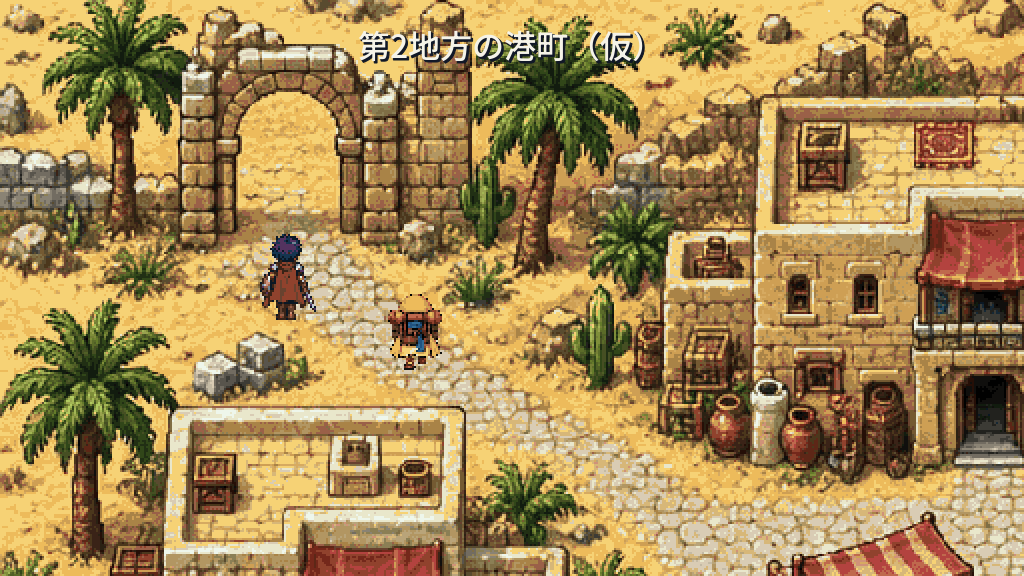
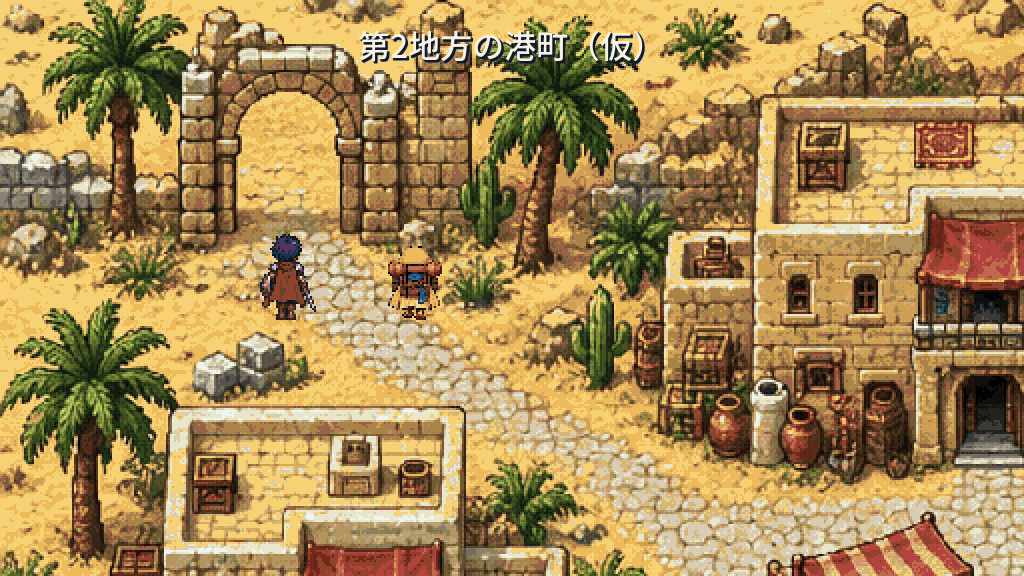
船を消した部分の海を、船の形に沿った範囲で原画の海の画素から合成し直す
- 埋める範囲を船の画素と船の影だけにし、船のすきまの本物の海は残す。上と左のまっすぐな境目をなくした
- 埋める画素は、周りの海と最もよく合う画素を原画の海の中から画素ごとに選んで1画素ずつ写す（波の並びが同じくり返しにならない）。ぼかし・混ぜ合わせなし
- 写し元の地図を影の範囲まで広げて記録し、検査で全画素が写し元の1画素の色だけで決まることを確かめる
- 消した部分の拡大を、消す前・今回の修正前・今回の修正後の3つ並べにした。船の絵で隠れる割合の記録を追加

Claude-Session: https://claude.ai/code/session_01LE2PtJusum8NxK6bSWYbwF

Changed region(s): [[0.375, 0.4375, 0.4375, 0.6562]]

diff --git a/tools/build_region2_port_town_backdrop.py b/tools/build_region2_port_town_backdrop.py
@@ -81,22 +81,7 @@ def erase_ship(raw):
     hx,hy=D.SHIP_HPLANK
     hplank=ship&~plank&~quay&(yy>=hy)&(xx>=hx)
     water=ship&~plank&~quay&~sand&~hplank
-    out=im.copy();src=np.full((H,W,2),-1,int);todo=water.copy()
-    for _ in range(8):   # 海：船のない海の塊を、ずらしてそのまま写す（最も多く埋まるずらしから順に）
-        ty,tx=np.nonzero(todo)
-        if len(ty)==0:break
-        best=None
-        for dx in range(150,520,6):
-            for dy in range(-140,141,6):
-                sy=ty+dy;sx=tx+dx;ok=(sy>=0)&(sy<H)&(sx>=0)&(sx<W)
-                n=int(clean[sy[ok],sx[ok]].sum())
-                if best is None or n>best[0]:best=(n,dx,dy)
-        n,dx,dy=best
-        sy=ty+dy;sx=tx+dx;ok=(sy>=0)&(sy<H)&(sx>=0)&(sx<W);ok[ok]=clean[sy[ok],sx[ok]]
-        if not ok.any():break
-        out[ty[ok],tx[ok]]=im[sy[ok],sx[ok]];src[ty[ok],tx[ok]]=np.stack([sx[ok],sy[ok]],1);todo[ty[ok],tx[ok]]=False
-    assert not todo.any() or todo.sum()<50,int(todo.sum())
-    for y,x in zip(*np.nonzero(todo)):out[y,x]=im[560,1000];src[y,x]=(1000,560)
+    out=im.copy();src=np.full((H,W,2),-1,int)
     def put(y,x,sy,sx):out[y,x]=im[sy,sx];src[y,x]=(sx,sy)
     px0,py0,px1,py1=D.SRC_PLANK_V
     for y,x in zip(*np.nonzero(plank)):put(y,x,py0+mirror(y,py1-py0),px0+mirror(x,px1-px0))
@@ -114,7 +99,64 @@ def erase_ship(raw):
                 if kind=='sand':put(y,x,sy0+mirror(y-y0,sy1-sy0),sx0+mirror(x-x0,sx1-sx0))
                 elif kind=='quay':put(y,x,uy0+mirror(y-y0,uy1-uy0),ux0+mirror(x-x0,ux1-ux0))
                 else:put(y,x,py0+mirror(y,py1-py0),px0+mirror(x,px1-px0))
+    # 海：船の画素だけを、船のない海の画素から1画素ずつ写して埋める（周りの海の続きになるように）。
+    # 船の形に沿った不規則な範囲になり、船のすきまから見えていた本物の海はそのまま残す。
+    bm=ndi.uniform_filter((b*blue).astype(float),9)/np.maximum(ndi.uniform_filter(blue.astype(float),9),1e-6)
+    clear=blue&(b>=125)&(bm>=150)   # 船の影になった暗い海は船の一部として埋め直す
+    shipish=water&~clear
+    # 船の影（船の外へはみ出した暗い灰青の海）も船の一部として埋める。板（茶色）と杭には触れない。
+    shadow=(~brown)&(~white)&(b<150)&(r<110)&(b>r+5)&ndi.binary_dilation(polygon_px(D.SHIP_POLY),iterations=D.SHIP_SHADOW_REACH)&(yy>=D.SHIP_SAND_Y+24)
+    shadow&=~ndi.binary_dilation(brown,iterations=1)
+    shadow&=(yy<D.SHIP_HPLANK[1])                      # 長い桟橋の板の隙間の暗い青は触らない
+    for ex0,ey0,ex1,ey1 in D.SHIP_SHADOW_SKIP:shadow[ey0:ey1,ex0:ex1]=False   # 杭と綱のそば
+    fill=(ndi.binary_dilation(shipish,iterations=2)&water)|(shadow&~plank&~polygon_px(D.SHIP_KEEP))
+    near_brown=ndi.uniform_filter(brown.astype(float),7)>0
+    pool=(blue|white)&~near_brown&~ndi.binary_dilation(polygon_px(D.SHIP_POLY),iterations=10+D.SHIP_SHADOW_REACH)&~fill
+    pool[:4]=pool[-4:]=False;pool[:,:4]=pool[:,-4:]=False
+    inpaint_sea(im,out,src,fill,pool)
     return out,src
+
+def inpaint_sea(im,out,src,fill,pool):
+    """Ashikhminの方法：すでに埋めた隣の画素の写し元の隣を第一候補にし（波の並びを続ける）、海の画素をいくつか加え、
+    周りの確定した画素（7×7）と最もよく合う候補の1画素をそのまま写す。ぼかし・混ぜ合わせはしない。"""
+    rng=np.random.RandomState(7);R=3
+    offs=np.array([(dy,dx) for dy in range(-R,R+1) for dx in range(-R,R+1) if (dy,dx)!=(0,0)])
+    known=~fill;synth=np.zeros((H,W),bool)
+    oc=out.astype(int);wl=((oc[:,:,2]>oc[:,:,0]+60)&(oc[:,:,2]>oc[:,:,1]+20))|((oc[:,:,0]>150)&(oc[:,:,1]>150)&(oc[:,:,2]>150))   # 比べる相手は海の画素だけ（板や岸の色に引きずられて暗くなるのを防ぐ）
+    py,px=np.nonzero(pool);pool_xy=np.stack([py,px],1)
+    steps=[(-1,-1),(-1,0),(-1,1),(0,-1),(0,1),(1,-1),(1,0),(1,1)]
+    unknown=fill.copy();ones=np.ones((3,3),bool)
+    total=int(fill.sum())
+    while unknown.any():
+        edge=ndi.binary_dilation(known,structure=ones)&unknown
+        ys,xs=np.nonzero(edge)
+        if len(ys)==0:ys,xs=np.nonzero(unknown)[0][:1],np.nonzero(unknown)[1][:1]
+        score=ndi.uniform_filter(known.astype(float),7)[ys,xs]
+        for i in np.argsort(-score,kind='stable'):
+            y,x=int(ys[i]),int(xs[i])
+            cands=[]
+            for dy,dx in steps:
+                ny,nx=y+dy,x+dx
+                if 0<=ny<H and 0<=nx<W and synth[ny,nx]:
+                    sx,sy=src[ny,nx];cands.append((sy-dy,sx-dx))
+            for j in rng.randint(0,len(pool_xy),24):cands.append(tuple(pool_xy[j]))
+            if 500<=y<=545:
+                for ddx in range(66,134,8):cands.append((y,x-ddx))
+            c=np.array(cands);ok=(c[:,0]>=R)&(c[:,0]<H-R)&(c[:,1]>=R)&(c[:,1]<W-R)
+            c=c[ok]
+            if len(c)==0:c=pool_xy[rng.randint(0,len(pool_xy),8)]
+            c=c[pool[c[:,0],c[:,1]]]
+            if len(c)==0:c=pool_xy[rng.randint(0,len(pool_xy),8)]
+            wy=y+offs[:,0];wx=x+offs[:,1];inside=(wy>=0)&(wy<H)&(wx>=0)&(wx<W)
+            wy=np.clip(wy,0,H-1);wx=np.clip(wx,0,W-1);k=known[wy,wx]&inside&wl[wy,wx]
+            target=out[wy,wx].astype(np.int32)
+            cy=c[:,0:1]+offs[None,:,0];cx=c[:,1:2]+offs[None,:,1]
+            diff=im[cy,cx].astype(np.int32)-target[None]
+            cost=((diff**2).sum(2)*k[None]).sum(1)
+            best=c[int(np.argmin(cost))]
+            out[y,x]=im[best[0],best[1]];src[y,x]=(best[1],best[0])
+            known[y,x]=True;unknown[y,x]=False;synth[y,x]=True;wl[y,x]=True
+    return total
 
 def sand_like(small):
     s=small.astype(float)/255;r,g,b=s[...,0],s[...,1],s[...,2];mx=s.max(2);mn=s.min(2)
@@ -291,8 +333,9 @@ def ship_erase_report(raw,image,source_map):
     value=((source_map[:,:,0]+1)<<10)|source_map[:,:,1]
     value=np.where(mask,value,0)
     packed[:,:,0]=(value>>16)&255;packed[:,:,1]=(value>>8)&255;packed[:,:,2]=value&255
+    mx0,my0,mx1,my1=D.SHIP_MAP_BOX   # 写し元の地図は、影の範囲まで含む広い範囲で記録する
+    Image.fromarray(packed[my0:my1,mx0:mx1]).save(VERIFY/'ship-erase-source-map.png')
     x0,y0,x1,y1=830,430,1140,790
-    Image.fromarray(packed[y0:y1,x0:x1]).save(VERIFY/'ship-erase-source-map.png')
     quant=np.array(Image.open(ROOT/BACKDROP).convert('RGB'))
     Image.fromarray(raw[y0:y1,x0:x1]).resize(((x1-x0)*3,(y1-y0)*3),Image.Resampling.NEAREST).save(VERIFY/'ship-erase-before.png')
     Image.fromarray(quant[y0:y1,x0:x1]).resize(((x1-x0)*3,(y1-y0)*3),Image.Resampling.NEAREST).save(VERIFY/'ship-erase-after.png')
@@ -383,7 +426,7 @@ def main():
         colors=len(colors),palette_used=[list(c) for c in colors],dropped_for_64=[dict(rgb=list(c),pixels=n) for c,n in dropped],
         palette_extension='assets/source_records/natural-water-extension.json',
         spawn=list(SPAWN),exit=list(EXIT),dock=list(DOCK),doors={n:list(d) for n,_,d,_ in D.BUILDINGS},
-        pruned_isolated_cells=[list(c) for c in cut],ship_erase=dict(bbox=[830,430,1140,790],source_map='docs/verification/region2-port-backdrop/ship-erase-source-map.png',encoding='値=((写し元x+1)<<10)|写し元y を R,G,B の24bit。0は手を入れていない画素。写し元は縮小後の絵の座標',pixels=int((source_map[:,:,0]>=0).sum())),ship_cell=list(SHIP_CELL),layout=rows_of(walk),
+        pruned_isolated_cells=[list(c) for c in cut],ship_erase=dict(bbox=list(D.SHIP_MAP_BOX),source_map='docs/verification/region2-port-backdrop/ship-erase-source-map.png',encoding='値=((写し元x+1)<<10)|写し元y を R,G,B の24bit。0は手を入れていない画素。写し元は縮小後の絵の座標',pixels=int((source_map[:,:,0]>=0).sum())),ship_cell=list(SHIP_CELL),layout=rows_of(walk),
         upper_layer=dict(path=OVERLAY,size=list(atlas.size),pieces=len(table),objects=sorted({t[7] for t in table}))))
     print('REGION2_TOWN_BACKDROP_BUILD_PASS: colors=%d walkable=%d pieces=%d atlas=%s pruned=%d dropped_colors=%d'%(len(colors),walk.sum(),len(table),atlas.size,len(cut),len(dropped)))
 

diff --git a/tools/build_region2_port_backdrop_review.py b/tools/build_region2_port_backdrop_review.py
@@ -79,13 +79,39 @@ def scenic_sheet():
         d.text((x,y+22),f"マス{tuple(s['cell'])}　人物の見える画素 {s['visible']}/{s['opaque']}（頭 {s['head_visible']}/{s['head_opaque']}）",font=font,fill=(70,70,70))
     sheet.save(OUT/'walking-scenes.png')
 
+ERASE_BOX=(830,430,1140,790)
+V0_COMMIT='79a43a5'   # 船を消す前（船が背景に描かれていた版）
+V1_COMMIT='eb9fd83'   # 船を消した最初の版（今回の修正前）
+
+def backdrop_at(commit):
+    if commit is None:return Image.open(ROOT/'assets/town_backdrops/region2_port.png').convert('RGB')
+    raw=subprocess.check_output(['git','show',f'{commit}:assets/town_backdrops/region2_port.png'],cwd=ROOT)
+    tmp=OUT/('_tmp_%s.png'%commit);tmp.write_bytes(raw);im=Image.open(tmp).convert('RGB');im.load();tmp.unlink();return im
+
 def erase_sheet():
-    """船を消した部分の拡大（消す前・消した後）。縮小後の絵の同じ範囲を3倍の最近傍で並べる。"""
-    before=Image.open(OUT/'ship-erase-before.png').convert('RGB');after=Image.open(OUT/'ship-erase-after.png').convert('RGB')
-    font=ImageFont.truetype(FONT,20)
-    sheet=Image.new('RGB',(before.width*2+60,before.height+60),(232,222,200));d=ImageDraw.Draw(sheet)
-    d.text((20,14),'消す前（縮小後の絵、3倍）',font=font,fill=(30,30,30));d.text((before.width+40,14),'消した後（減色後の背景、3倍）',font=font,fill=(30,30,30))
-    sheet.paste(before,(20,50));sheet.paste(after,(before.width+40,50));sheet.save(OUT/'ship-erase-before-after.png')
+    """船を消した部分の拡大：消す前・今回の修正前・今回の修正後。縮小後の同じ範囲を3倍の最近傍で並べる。"""
+    panels=[('消す前（船が背景に描かれた版）',backdrop_at(V0_COMMIT)),('今回の修正前（船を消した最初の版）',backdrop_at(V1_COMMIT)),('今回の修正後',backdrop_at(None))]
+    x0,y0,x1,y1=ERASE_BOX;font=ImageFont.truetype(FONT,20);w=(x1-x0)*3;h=(y1-y0)*3
+    sheet=Image.new('RGB',(w*3+80,h+60),(232,222,200));d=ImageDraw.Draw(sheet)
+    for i,(title,im) in enumerate(panels):
+        x=20+i*(w+20);d.text((x,14),title,font=font,fill=(30,30,30))
+        sheet.paste(im.crop(ERASE_BOX).resize((w,h),Image.Resampling.NEAREST),(x,50))
+    sheet.save(OUT/'ship-erase-before-after.png')
+
+def ship_coverage():
+    """消して埋めた画素のうち、動く船の絵（不透明画素）で隠れる割合。隠れない部分は周りの海と区別がつかないことを目で確かめる。"""
+    record=json.loads((ROOT/'assets/source_records/region2-port-town-backdrop.json').read_text(encoding='utf8'))
+    emap=np.array(Image.open(OUT/'ship-erase-source-map.png').convert('RGB')).astype(int)
+    value=(emap[:,:,0]<<16)|(emap[:,:,1]<<8)|emap[:,:,2];edited=value>0
+    x0,y0=record['ship_erase']['bbox'][:2]   # 写し元の地図の左上
+    sprite=Image.open(ROOT/'assets/vehicles/owner_ship.png').convert('RGBA').crop((96,0,192,96)).resize((192,192),Image.Resampling.NEAREST)
+    alpha=np.array(sprite)[:,:,3]>0
+    cx,cy=record['ship_cell'];sx=cx*32+16-96;sy=(cy+1)*32-192
+    covered=0;total=int(edited.sum())
+    for yy,xx in zip(*np.nonzero(edited)):
+        px,py=xx+x0-sx,yy+y0-sy
+        if 0<=px<192 and 0<=py<192 and alpha[py,px]:covered+=1
+    return dict(edited_pixels=total,hidden_by_ship_sprite=covered,ratio=round(covered/total,3))
 
 def ship_sheet():
     shots=json.loads((OUT/'ship/checks.json').read_text(encoding='utf8'))['scenic']
@@ -97,8 +123,11 @@ def ship_sheet():
         x=12+i%2*(tw+12);y=12+i//2*(th+34);d.text((x,y),names.get(key,key),font=font,fill=(30,30,30));sheet.paste(im.resize((tw,th),Image.Resampling.LANCZOS),(x,y+26))
     sheet.save(OUT/'ship-scenes.png')
 
+def write_json(path,value):path.write_text(json.dumps(value,ensure_ascii=False,indent=2)+'\n',encoding='utf8',newline='\n')
+
 def main():
     OUT.mkdir(parents=True,exist_ok=True)
     comparison();overlay_on_original();scenic_sheet();erase_sheet();ship_sheet()
+    write_json(OUT/'ship-erase-coverage.json',ship_coverage())
     print('REGION2_BACKDROP_REVIEW_BUILT')
 if __name__=='__main__':main()

diff --git a/tools/region2_port_town_defs.py b/tools/region2_port_town_defs.py
@@ -122,3 +122,7 @@ SRC_SAND_DX=-36                   # 砂は左隣から
 # (x0,y0,x1,y1,種類)  sand＝砂、quay＝岸壁の板の側面、plank＝縦板の渡し板
 ENTRANCE_CLEAR=[(986,436,1005,479,'sand'),(1006,454,1027,479,'sand'),(986,480,1005,486,'quay'),(1006,480,1027,498,'plank')]
 SRC_SAND=(950,451,966,468)       # 砂の見本
+
+SHIP_SHADOW_REACH=28              # 船の領域の外へ、影を探す幅（px）
+SHIP_SHADOW_SKIP=[(900,496,942,540)]   # 影の探索から除く範囲（杭と綱）
+SHIP_MAP_BOX=(780,400,1180,830)   # 写し元の地図に記録する範囲（船の領域＋影の探索幅を含む）

diff --git a/docs/region2-port-backdrop.md b/docs/region2-port-backdrop.md
@@ -67,17 +67,22 @@
 最初の版では、原画に描かれた船を背景に残していたため、出航しても船の絵が桟橋に残った。次のように直した。
 
 - 背景から船（船体・帆柱・帆・綱）を消した。消した範囲は `tools/region2_port_town_defs.py` の `SHIP_POLY`（杭と係船柱は `SHIP_KEEP` などで残す）。
-  埋めた画素はすべて**周りの船のない画素をそのまま写したもの**で、ぼかし・混ぜ合わせはしない。
-  - 海：船のない海の塊を、ずらしてそのまま写した（ずらし量は、船のない海の画素が最も多く埋まるものから順に8回まで。ぼかしなし）。
+  埋めた画素はすべて**周りの船のない画素を1画素ずつそのまま写したもの**で、ぼかし・混ぜ合わせはしない。
+  - 海（2026年10月3日に直した）：最初の版は、船のない海の1か所の塊を、船の領域全体へずらして写していた。そのため上と左の端がまっすぐな線で区切られ、波の並びが単調で、写し元の境目に薄い線が出た。
+    今は、**船の画素と船の影だけ**を埋める（船のすきまから見えていた本物の海はそのまま残す。範囲は船の形に沿った不規則な形になる）。
+    埋めかたは Ashikhmin の画素合成：埋める画素ごとに、すでに決まった周り7×7の海の画素と最もよく合う画素を、原画の海の中から候補（①すでに埋めた隣の写し元の隣＝波の並びを続ける、②船から離れた海の画素24個、③同じ高さの左側の海）から選び、その1画素をそのまま写す。
+    比べる相手は海の画素だけ（板や杭の色に引きずられない）。明るさと波の向きが近い場所が画素ごとに選ばれるので、同じ並びのくり返しや、1か所の写し元の境目の線は出ない。
+    船の影（船の外へはみ出した暗い灰青）も埋める。板（茶色）と杭と綱のそばは触らない。
   - 桟橋の縦板（斜めの渡し板・中央桟橋の縁）：中央桟橋の船のない縦板を鏡像に敷いた。
   - 長い桟橋の上の縁（船体の下に隠れていた部分）：長い桟橋の船のない横板を鏡像に敷いた。
   - 岸壁の板の側面（帆柱が横切っていた部分）：同じ側面の船のない部分を鏡像に敷いた。前の帆柱の先は、左隣の砂を写した。
-- 写し元の座標は全画素について `docs/verification/region2-port-backdrop/ship-erase-source-map.png` に記録した（形式はファイル内の `assets/source_records/region2-port-town-backdrop.json` の `ship_erase.encoding`）。
+- 写し元の座標は全画素について `docs/verification/region2-port-backdrop/ship-erase-source-map.png` に記録した（形式は `assets/source_records/region2-port-town-backdrop.json` の `ship_erase.encoding`）。
   `tools/check_region2_port_backdrop.py` が、消した画素のすべてが、記録した写し元の**1画素の色だけ**から決まっていることを確かめる。
 - 上の層の帆柱の部品は外した。
 - 船は第1地方と同じ動く船の絵（`assets/vehicles/owner_ship.png`、192×192px）を、足元のマス(30,22)で桟橋のすぐ西の水面に重ねる。船が着いている間だけ描き、出航すると消え、帰還の風で港に戻ると桟橋に戻る
   （描画条件は第1港と同じ：`first_region_view.gd`）。中央桟橋の乗り降りのマス(34,21)は、船の東隣。
-- 消した部分の拡大（消す前・消した後）：[ship-erase-before-after.png](verification/region2-port-backdrop/ship-erase-before-after.png)。実画面：[ship-scenes.png](verification/region2-port-backdrop/ship-scenes.png)。
+- 消した部分の拡大（消す前・今回の修正前・今回の修正後の3つ）：[ship-erase-before-after.png](verification/region2-port-backdrop/ship-erase-before-after.png)。
+- 動く船の絵が着いている間に、消した範囲が船の絵からはみ出して見えないか：消した55576画素のうち、船の絵の不透明画素で隠れるのは13925画素（25%）。残りは船の絵の外に見える海の画素で、周りの海と同じ原画の海の画素から写してあるので、はみ出しとしては見えない（[ship-scenes.png](verification/region2-port-backdrop/ship-scenes.png) の出航前の画面）。記録は `ship-erase-coverage.json`。実画面：[ship-scenes.png](verification/region2-port-backdrop/ship-scenes.png)。
 
 ### 渡し板の入口 (31,14)
 
